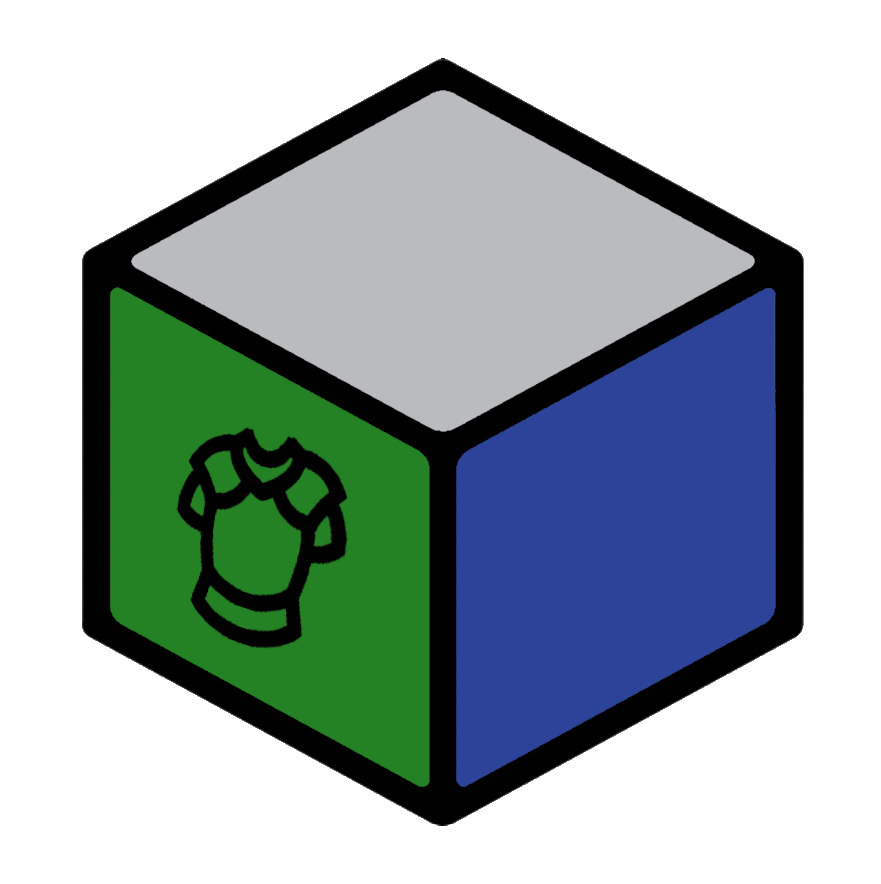
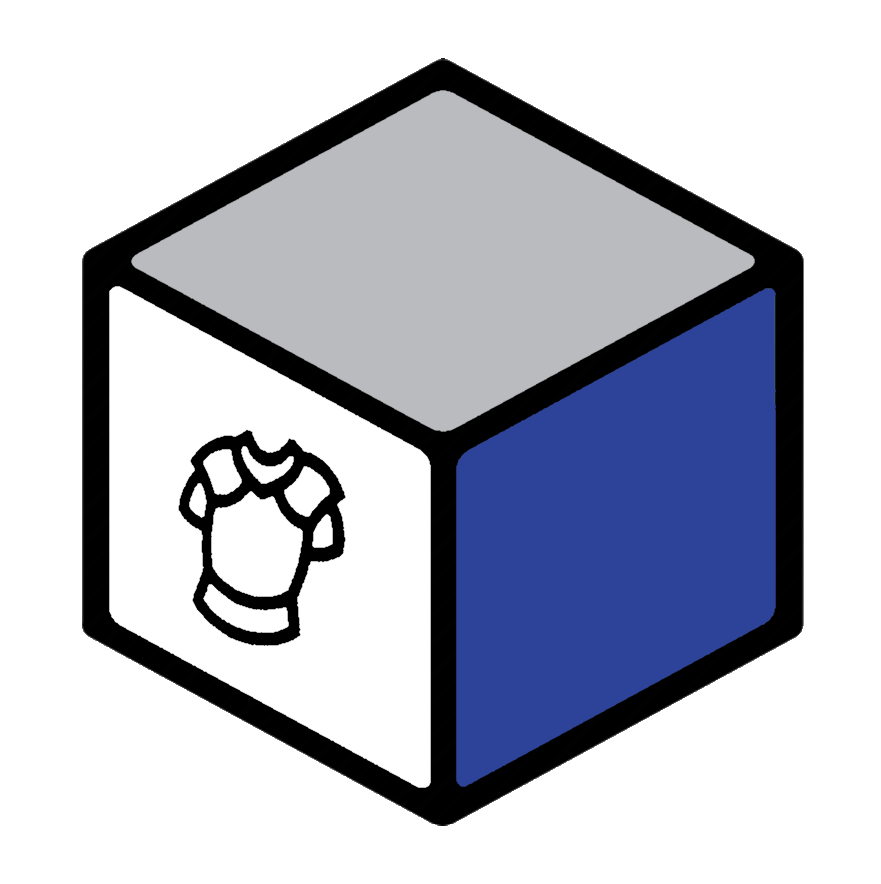
Advanced shop added

Changed region(s): [[0.1226, 0.3054, 0.4904, 0.9163]]

diff --git a/Realm.py b/Realm.py
@@ -1104,6 +1104,7 @@ async def on_ready():
         "havens": {
             "the-tavern": realm.get_channel(763300003095117846),
             "the-travelling-caravan": realm.get_channel(817631855603089439),
+            "the-bazaar": realm.get_channel(821259911483621376),
         },
         "pet-zones": {
             "the-menagerie": realm.get_channel(818311959047831552),
@@ -1329,19 +1330,38 @@ async def on_ready():
     msgs = await c.history(limit=200).flatten()
     for msg in msgs:
         await msg.delete(delay=0.2)
-    await c.send("Welcome to the travelling caravan! The wares are as below:")
+    await c.send("Welcome to the Travelling Caravan! The wares are as below:")
     reactables["vendors"]["caravan-weapon-lootbox"] = await c.send(
-        "Basic Weapon Lootbox",
-        file=discord.File("Data/Resources/Images/LootBoxWeaponBasic.png"),
+        "Advanced Weapon Lootbox",
+        file=discord.File("Data/Resources/Images/LootBoxWeaponAdvanced.png"),
     )
     await reactables["vendors"]["caravan-weapon-lootbox"].add_reaction(
         emoji_set["moneyBag"]
     )
     reactables["vendors"]["caravan-armour-lootbox"] = await c.send(
+        "Advanced Armour Lootbox",
+        file=discord.File("Data/Resources/Images/LootBoxArmourAdvanced.png"),
+    )
+    await reactables["vendors"]["caravan-armour-lootbox"].add_reaction(
+        emoji_set["moneyBag"]
+    )
+    c = channels["havens"]["the-bazaar"]
+    msgs = await c.history(limit=200).flatten()
+    for msg in msgs:
+        await msg.delete(delay=0.2)
+    await c.send("Welcome to The Bazaar! The wares are as below:")
+    reactables["vendors"]["bazaar-weapon-lootbox"] = await c.send(
+        "Basic Weapon Lootbox",
+        file=discord.File("Data/Resources/Images/LootBoxWeaponBasic.png"),
+    )
+    await reactables["vendors"]["bazaar-weapon-lootbox"].add_reaction(
+        emoji_set["moneyBag"]
+    )
+    reactables["vendors"]["bazaar-armour-lootbox"] = await c.send(
         "Basic Armour Lootbox",
         file=discord.File("Data/Resources/Images/LootBoxArmourBasic.png"),
     )
-    await reactables["vendors"]["caravan-armour-lootbox"].add_reaction(
+    await reactables["vendors"]["bazaar-armour-lootbox"].add_reaction(
         emoji_set["moneyBag"]
     )
     print("Channel Initialization Complete")
@@ -2579,6 +2599,12 @@ async def on_reaction_add(reaction, user):
                 elif message == reactables["vendors"]["caravan-armour-lootbox"]:
                     boxType = "armour"
                     boxRarity = "basic"
+                elif message == reactables["vendors"]["bazaar-armour-lootbox"]:
+                    boxType = "armour"
+                    boxRarity = "advanced"
+                elif message == reactables["vendors"]["bazaar-armour-lootbox"]:
+                    boxType = "armour"
+                    boxRarity = "advanced"
                 if boxRarity == "basic":
                     cost = math.ceil(150 * (1.1 ** players[user.id].level))
                 elif boxRarity == "advanced":
@@ -2627,9 +2653,11 @@ async def on_reaction_add(reaction, user):
                                 elif boxRarity == "advanced":
                                     tier = "t7"
                                     possibleRarities = [
+                                        "Common",
+                                        "Uncommon",
+                                        "Rare",
                                         "Epic",
                                         "Legendary",
-                                        "Zekiforged",
                                     ]
                                 while not lootOK:
                                     lootGen = Loot(
